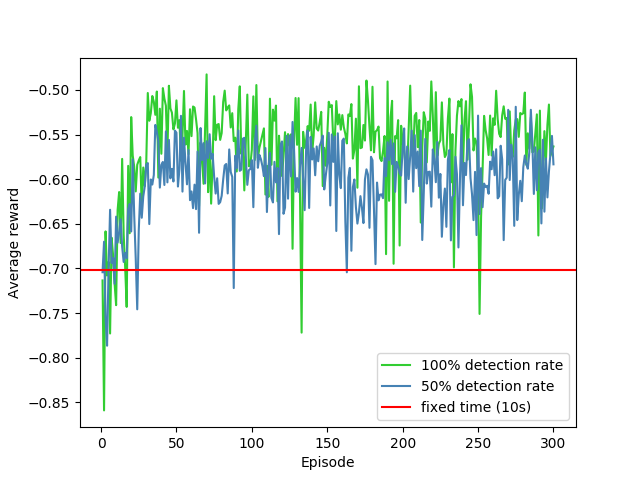
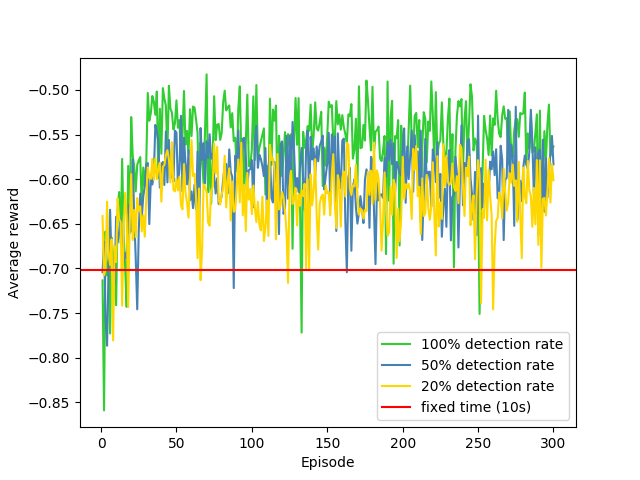
new learning figures

Changed region(s): [[0.1562, 0.2812, 0.875, 0.7188], [0.5938, 0.6875, 0.9062, 0.8125], [0.5938, 0.75, 0.625, 0.8125]]

diff --git a/plot.py b/plot.py
@@ -2,13 +2,13 @@ import matplotlib.pyplot as plt
 import pickle
 
 if __name__ == "__main__":
-    baseline_name = "hor1over45_ver1over60"
-    name1 = "model_hor_45_60_100"
-    name2 = "model_hor_45_60_50"
-    name3 = "model_hor_45_60_20"
-    figure_name = "horizontal_45_60"
+    baseline_name = "hor1over30_ver1over45"
+    name1 = "model_hor_30_45_100"
+    name2 = "model_hor_30_45_50"
+    name3 = "model_hor_30_45_20"
+    figure_name = "horizontal_30_45"
 
-    with open("data/"+ name1 + "_episodes.txt", "rb") as file:
+    with open("data/" + name1 + "_episodes.txt", "rb") as file:
         episodes = pickle.load(file)
     with open("data/" + baseline_name + "_baseline_r.txt", "rb") as file:
         baseline_r = pickle.load(file)
@@ -36,7 +36,7 @@ if __name__ == "__main__":
     plt.xlabel("Episode")
     plt.ylabel("Average reward")
     plt.legend()
-    plt.savefig("figures/" + figure_name +"_r.png")
+    plt.savefig("figures/" + figure_name + "_r.png")
     plt.show()
 
     plt.figure()

diff --git a/simulator.py b/simulator.py
@@ -157,18 +157,18 @@ class Simulator:
                 self.episodeEnd = 1
 
         # Fixed phase duration
-        if self.currPhaseTime > 10:
+        '''if self.currPhaseTime > 10:
             if action:
                 sys.exit("Action specified but fixed-time control is activated.")
-            self.next_phase()
+            self.next_phase()'''
 
         # Randomly choosing if the simulation switches to the next state or stays at the current state
         '''if random.uniform(0, 1) < 0.02 and self.currPhaseTime > 10:
             self.next_phase()'''
 
         # Action decided by the value given in argument
-        '''if action == 1 and self.currPhaseTime > 10:
-            self.next_phase()'''
+        if action == 1 and self.currPhaseTime > 10:
+            self.next_phase()
 
         traci.simulationStep()
         self.currNbIterations += 1
